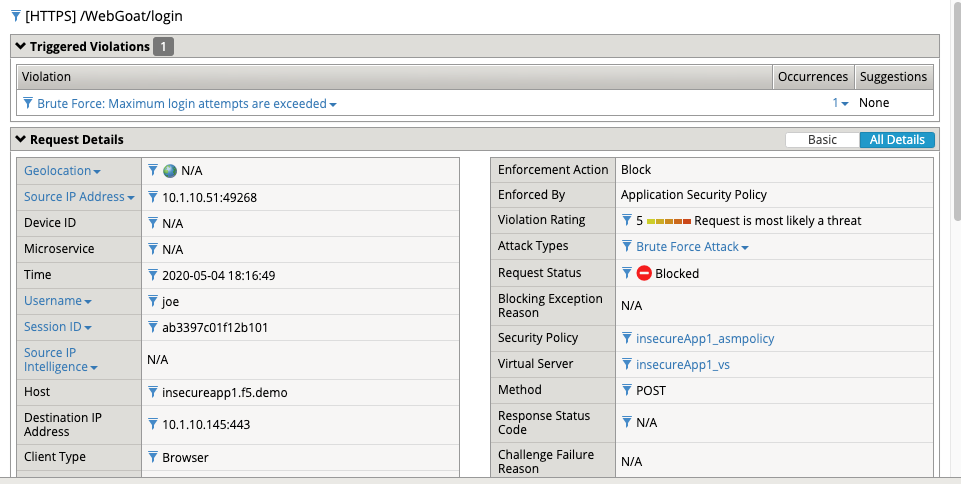
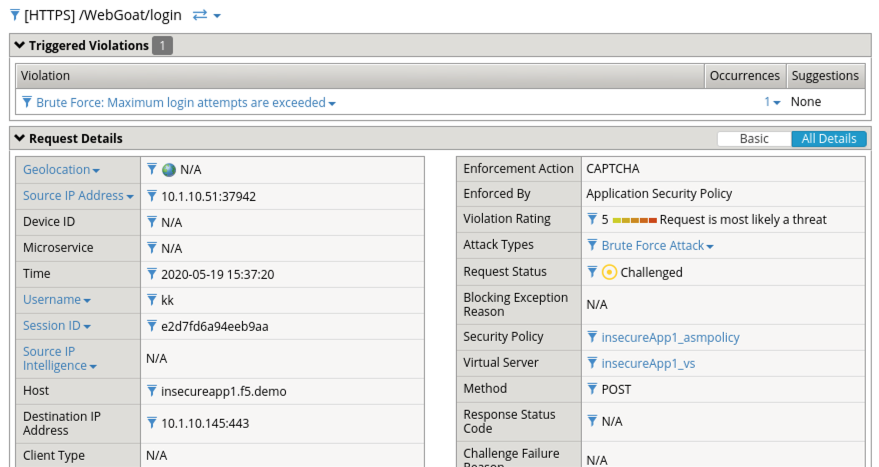
update-mod1lab1

Changed region(s): [[0.0, 0.0, 1.0, 1.0]]

diff --git a/docs/class5/module1/lab1/lab1.rst b/docs/class5/module1/lab1/lab1.rst
@@ -9,6 +9,8 @@ Lab 1.1: Brute Force Attack Prevention
         :width: 800px
 ..  |lab1-3| image:: images/lab1-3.png
         :width: 800px
+..  |lab1-3a| image:: images/lab1-3a.png
+        :width: 800px
 ..  |lab1-4| image:: images/lab1-4.png
         :width: 800px
 ..  |lab1-5| image:: images/lab1-5.png
@@ -47,6 +49,8 @@ Lab 1.1: Brute Force Attack Prevention
         :width: 800px
 ..  |lab41-07| image:: images/lab41-07.png
         :width: 800px
+..  |lab41-08| image:: images/lab41-08.png
+                :width: 800px
 
 
 ..  |lab41-007| image:: images/lab41-007.png
@@ -100,7 +104,7 @@ If you are continuing from WAF 141 please start at step 9 below (setting policy 
 
     |lab41-20|
 
-#.  Ensure that the **insecureApp1_asmpolicy** policy and the **Log All requests** log profile are enabled on the **insecureApp1_vs** virtual server as shown below.
+#.  Navigate to **Local Traffic > Virtual Servers > Virtual Server List > insecureApp1_vs > Security > Policies** andeEnsure that the **insecureApp1_asmpolicy** policy and the **Log All requests** log profile are enabled on the **insecureApp1_vs** virtual server as shown below.
 
     |lab41-01|
 
@@ -129,11 +133,7 @@ Enabling Bot Profile
         |pbd|
 
 #.  Click **Save**.
-#.  Navigate to **Local Traffic > Virtual Servers > Virtual Server List > insecureApp1_vs > Security > Policies**
-#.  Check to make sure that Bot Defense profile and Application Security profiles are enabled.
-#.  Click **Update**
 
-        |lab1-2.1|
 
 
 Define Login & Logout Pages
@@ -145,7 +145,7 @@ Define Login & Logout Pages
 
                 |lab41-03|
 
-        #.  Populate the form as shown below and click **Create **:
+        #.  Populate the form as shown below and click **Create**:
 
             ``Location: https://insecureapp1.f5.demo.com/WebGoat/welcome.mvc``
 
@@ -159,6 +159,8 @@ Define Login & Logout Pages
 
         #.  Populate the form as shown below and click **Create and then Apply policy**.
 
+          ``/WebGoat/logout``
+
                  |lab41-05|
 
         Please proceed to Task 1.
@@ -170,18 +172,22 @@ Define Login & Logout Pages
 There is more than one kind of brute force attack. In the classic version, hackers attempt to log in to an application by repeatedly guessing users’ account credentials. Because of these attacks, most applications now lock an account when it encounters multiple unsuccessful authentication attempts, at least temporarily. However, this strategy only protects against attack on a single account.
 In another version of this attack, commonly called “credential stuffing,” hackers make only one attempt to log in to users’ accounts. They obtain a collection of user name and password combinations from a compromised application and programmatically evaluate them against their target application, looking for accounts where users reused their compromised credentials. When they finish, the hackers know those accounts for which they have valid credentials on the target application.
 
+.. note:: F5 WAF has a number of brute force attack detection capabilities that are beyond the scope of this exercise.  Take some time to examine some of the other options as you work through this lab.  For more information see:  ``https://techdocs.f5.com/en-us/bigip-15-0-0/big-ip-asm-implementations/mitigating-brute-force-attacks.html`` .
+
 Task 1 - Configure Brute Force Attack Prevention
 ~~~~~~~~~~~~~~~~~~~~~~~~~~~~~~~~~~~~~~~~~~~~~~~~
 
 #.  Open the BIG-IP GUI interface .
 
-#. Navigate to Security -> Application Security -> Sessions and Logins -> Login Enforcement
+#. Navigate to **Security -> Application Security -> Sessions and Logins -> Login Enforcement**
 
-#. Delete any urls in **Authenticated URLS** and click **Save and then Apply Policy**
+#. **Remove** any urls in **Authenticated URLS** and click **Save and then Apply Policy**
+
+    |lab41-08|
 
 #.  Navigate to **Security -> Application Security -> Brute Force Attack Prevention** and click **Create**.
 
-    .. note:: F5 WAF has a number of brute force attack detection capabilities that are beyond the scope of this exercise.  Take some time to examine some of the other options as you work through this lab.  For more information see:  ``https://techdocs.f5.com/en-us/bigip-15-0-0/big-ip-asm-implementations/mitigating-brute-force-attacks.html`` .
+
 
 #.  Select the login page you created earlier or imported as part of lab setup.
 
@@ -208,16 +214,19 @@ Task 2 - Test username based Brute Force Protection
 
 #.  Go to the to WebGoat login page at ``https://insecureapp1.f5.demo/WebGoat/login`` but **do not login as f5student** .
 
-#.  Attempt to login using the same username (not f5student) and password at least 4 times.
+#.  Attempt to login using the same username and password at least 4 times or until CAPTCHA is displayed. Solve the CAPTCHA
 
+#.  Examine the most recent requests in the event log by navigating to Security -> Event Logs -> Applications -> Requests:
 
-#.  Examine the most recent **illegal** request in the event log:
+    You should see two requests for /WebGoat/login , one is the CAPTCHA challenge and the other is the CAPTCHA solve result.
 
     |lab1-3|
 
-    Take note of the username field.  The request was blocked as a brute force attack.
+    |lab1-3a|
 
-#.  Click the **Brute force: Maximum Login Attempts are exceeded** header at the top of the event window:
+    Take note of the username field.  The request was considered as a brute force attack with an action of Alarm and CAPTCHA.
+
+#.  Near the **Brute force: Maximum Login Attempts are exceeded** header at the top of the event window click on the number under **Occurrences**:
 
     |lab1-4|
 
@@ -226,7 +235,9 @@ Task 2 - Test username based Brute Force Protection
 Task 3 - Enable Device ID
 ~~~~~~~~~~~~~~~~~~~~~~~~~
 
-#. Navigate to **Security -> Bot Defense -> Bot Defense Profiles** and under the **Browsers** tab edit the profile **insecureApp1_botprofile** to enable Device ID mode to "Generate Before Access" for browsers.  The Device ID is a unique identifier that F5 WAF creates by sending JavaScript to get information about the client device
+#. Navigate to **Security -> Bot Defense -> Bot Defense Profiles** and under the **Browsers** tab edit the profile **insecureApp1_botprofile** to enable Device ID mode to "Generate Before Access" for browsers.  Device ID is a unique identifier that F5 WAF generates for each client browser.
+You can use the device identifier to identify nefarious clients and diagnose security issues, such as session hijacking, web scraping, brute force login attempts, and others.
+
 
 #. Click **Save**
 
@@ -246,11 +257,11 @@ Task 4 - Test Device ID based Brute Force Protection
 
 #. Attempt to login using a different username as in step 3, your first login request should be blocked.
 
-#. Examine the most recent illegal request in the event log:
+#. Examine the most recent requests in the event log by navigating to Security -> Event Logs -> Applications -> Requests:
 
     |lab1-6|
 
-#. Click on the Occurrences and notice the Device ID for the request.
+#. Click on the Occurrences and notice the Device ID in the request.
 
     |lab1-7|
 
